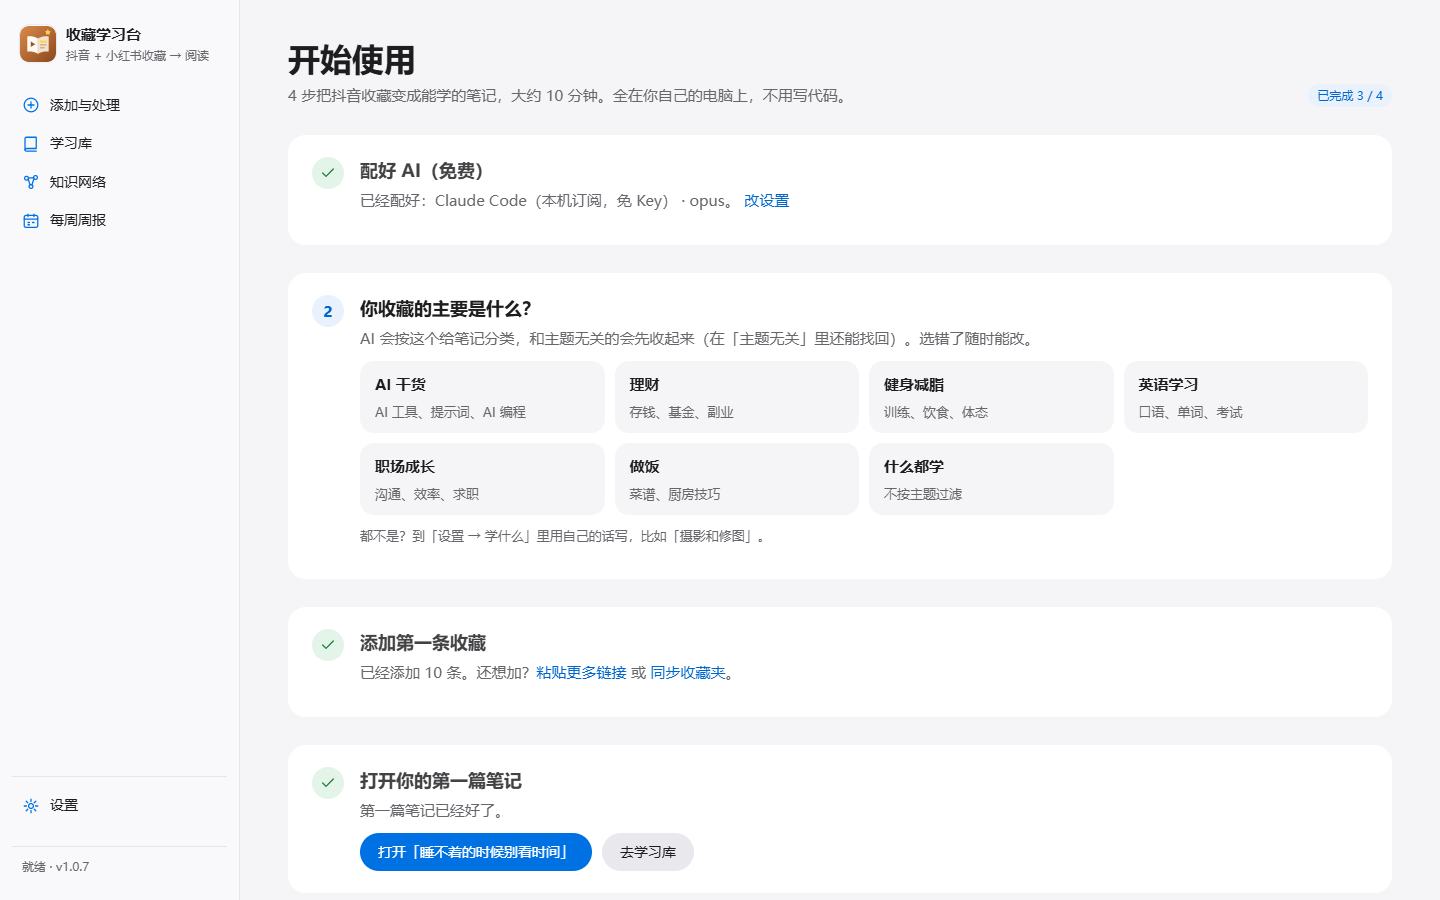
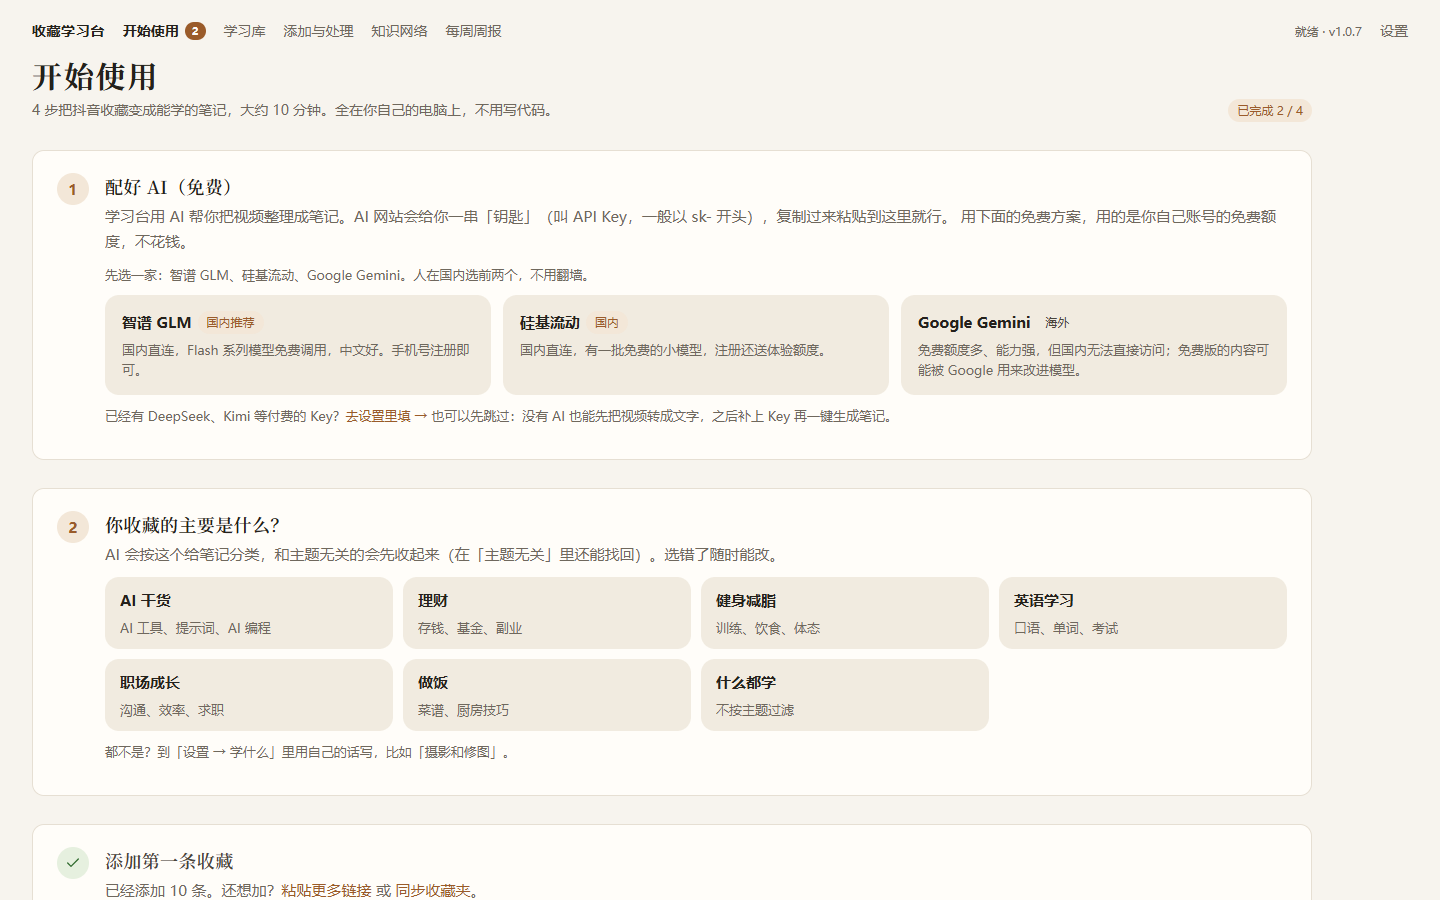
演示数据换成网球，README 截图按新界面重拍
- scripts/make_demo.py：三篇示例文章改成网球（正手引拍、击球点、发球抛球），专题改成「网球 › 基本功 › 正手和发球」，专题笔记用不带出处标题的新格式
- docs/screenshots：11 张截图用新的演示数据和统一后的界面重拍（1440x900）
- README：演示数据说明里的专题名同步更新

diff --git a/scripts/make_demo.py b/scripts/make_demo.py
@@ -24,18 +24,18 @@ yuedu.save_taxonomy({"tabs": yuedu.DEFAULT_TABS, "categories": {}})
 
 ARTICLES = [
     # (平台, 分类 tab, 大类, 小主题, 标题, 作者, 金句, 正文)
-    ("douyin", "爱好", "一、武术 · 太极", "步法", "猫步入门：先学会走路", "示例教练A",
-     "上步先落脚跟，重心再慢慢跟过去。",
-     "很多人一学猫步就把脚抬得很高，结果身体前后晃。\n\n## 先找走路的感觉\n上步先落脚跟，重心再慢慢跟过去。脚落下的时候是空的，"
-     "像试探冰面一样。\n\n## 再加上转腰\n重心过来以后再转腰，把后脚带上来。整个过程要慢，**慢才能练出控制**。"),
-    ("xhs", "爱好", "一、武术 · 太极", "步法", "下盘稳不稳，看收脚", "示例教练B",
-     "收脚的时候膝盖别先动，让胯带着走。",
-     "收脚是猫步里最容易被忽略的一半。\n\n收脚的时候膝盖别先动，让胯带着走，脚尖轻轻点地再收回来。"
-     "\n\n可以扶着椅背练：一手扶稳，另一只脚慢慢收、慢慢出，每边十次。"),
-    ("douyin", "爱好", "一、武术 · 太极", "站桩", "站桩十分钟，先把肩膀放下来", "示例教练C",
-     "站桩不是站得越久越好，而是站得越松越好。",
-     "站桩的第一步是放松肩膀。很多人站着站着肩膀就耸起来了。\n\n站桩不是站得越久越好，而是站得越松越好。"
-     "\n\n1. 双脚与肩同宽\n2. 膝盖微屈，不超过脚尖\n3. 呼吸放慢，数到十再换气"),
+    ("douyin", "爱好", "一、网球", "正手", "正手引拍：先转肩，再拉拍", "示例教练A",
+     "先转肩，球拍自然就到位了。",
+     "很多人正手一上来就用手臂往后拉拍，结果击球总是晚。\n\n## 先转肩\n看到球过来，先转肩，球拍自然就到位了。"
+     "左手扶着拍颈一起转，肩膀转到侧对球网。\n\n## 再把拍头放下去\n拍头自然下落，再从下往上刷出去。记住一句话：**转肩比拉拍重要**。"),
+    ("xhs", "爱好", "一、网球", "正手", "击球点要在身体前面", "示例教练B",
+     "球打得晚，多半不是挥拍慢，而是准备晚。",
+     "击球点在身体前面一个小臂的距离，这时候手臂最有力。\n\n球打得晚，多半不是挥拍慢，而是准备晚。"
+     "\n\n可以对着墙练：球弹起来的时候喊「弹」，击球的时候喊「打」，喊得出节奏，击球点就靠前了。"),
+    ("douyin", "爱好", "一、网球", "发球", "发球抛球：像把球放到架子上", "示例教练C",
+     "抛球不是扔，是把球送上去。",
+     "发球不稳，十次有八次是抛球的问题。\n\n抛球不是扔，是把球送上去，像把球放到头顶前面的一个架子上。"
+     "\n\n1. 用指根托球，不要用手心握\n2. 手臂伸直往上送，到眼睛的高度再松手\n3. 球落下来应该砸在前脚的前面一点"),
     ("douyin", "厉害", "一、学习方法", "复盘", "每天睡前花五分钟复盘", "示例作者D",
      "复盘不是回忆做了什么，而是想明天怎么做得更好。",
      "复盘不是回忆做了什么，而是想明天怎么做得更好。\n\n## 三个问题\n1. 今天哪件事做得最好？\n2. 哪件事可以做得更好？\n"
@@ -60,16 +60,17 @@ for n, (plat, tab, cat, tp, title, author, gold, body) in enumerate(ARTICLES, 1)
     yuedu.learn_topic(tab, cat, tp)
     ids.append(iid)
 
-# 专题：武术 › 太极 › 太极猫步（三条），带一段笔记
-a = topics.node_create(None, "武术")
-b = topics.node_create(a, "太极")
-t = topics.topic_create(b, "太极猫步")
+# 专题：网球 › 基本功 › 正手和发球（三条），带一段笔记
+a = topics.node_create(None, "网球")
+b = topics.node_create(a, "基本功")
+t = topics.topic_create(b, "正手和发球")
 topics.items_add(t, ids[:3])
-topics.topic_note(t, "【猫步入门：先学会走路】\n> 上步先落脚跟，重心再慢慢跟过去。\n\n练习计划：每天扶椅背收脚 10 次，再走 5 分钟猫步。")
+topics.topic_note(t, "> 先转肩，球拍自然就到位了。\n\n练习计划：每天对墙打正手 50 个，再练 20 个抛球。")
+topics.quote_add(t, ids[0], "先转肩，球拍自然就到位了。")  # 摘抄来自哪篇：笔记里不写出处，记在后台
 # 精品、高亮
 db.update(ids[0], starred=1)
 db.update(ids[3], starred=1)
-topics.hl_add(ids[0], "慢才能练出控制")
+topics.hl_add(ids[0], "转肩比拉拍重要")
 
 # 几条被跳过的（「添加与处理 → 已跳过」按原因分组）
 SKIPPED = [

diff --git a/README.md b/README.md
@@ -253,7 +253,7 @@ python scripts/make_demo.py demo_data
 | Windows（PowerShell） | `$env:FAVSTUDY_DATA="demo_data"; .venv\Scripts\python -X utf8 -m app --port 8770` |
 | Mac / Linux | `FAVSTUDY_DATA=demo_data .venv/bin/python -m app --port 8770` |
 
-里面有 6 篇示例文章、4 条已跳过、一个「武术 › 太极 › 太极猫步」专题（带笔记、精品和高亮）。文章是编的，「原视频」放不出来。
+里面有 6 篇示例文章、4 条已跳过、一个「网球 › 基本功 › 正手和发球」专题（带笔记、精品和高亮）。文章是编的，「原视频」放不出来。
 
 ---
 
